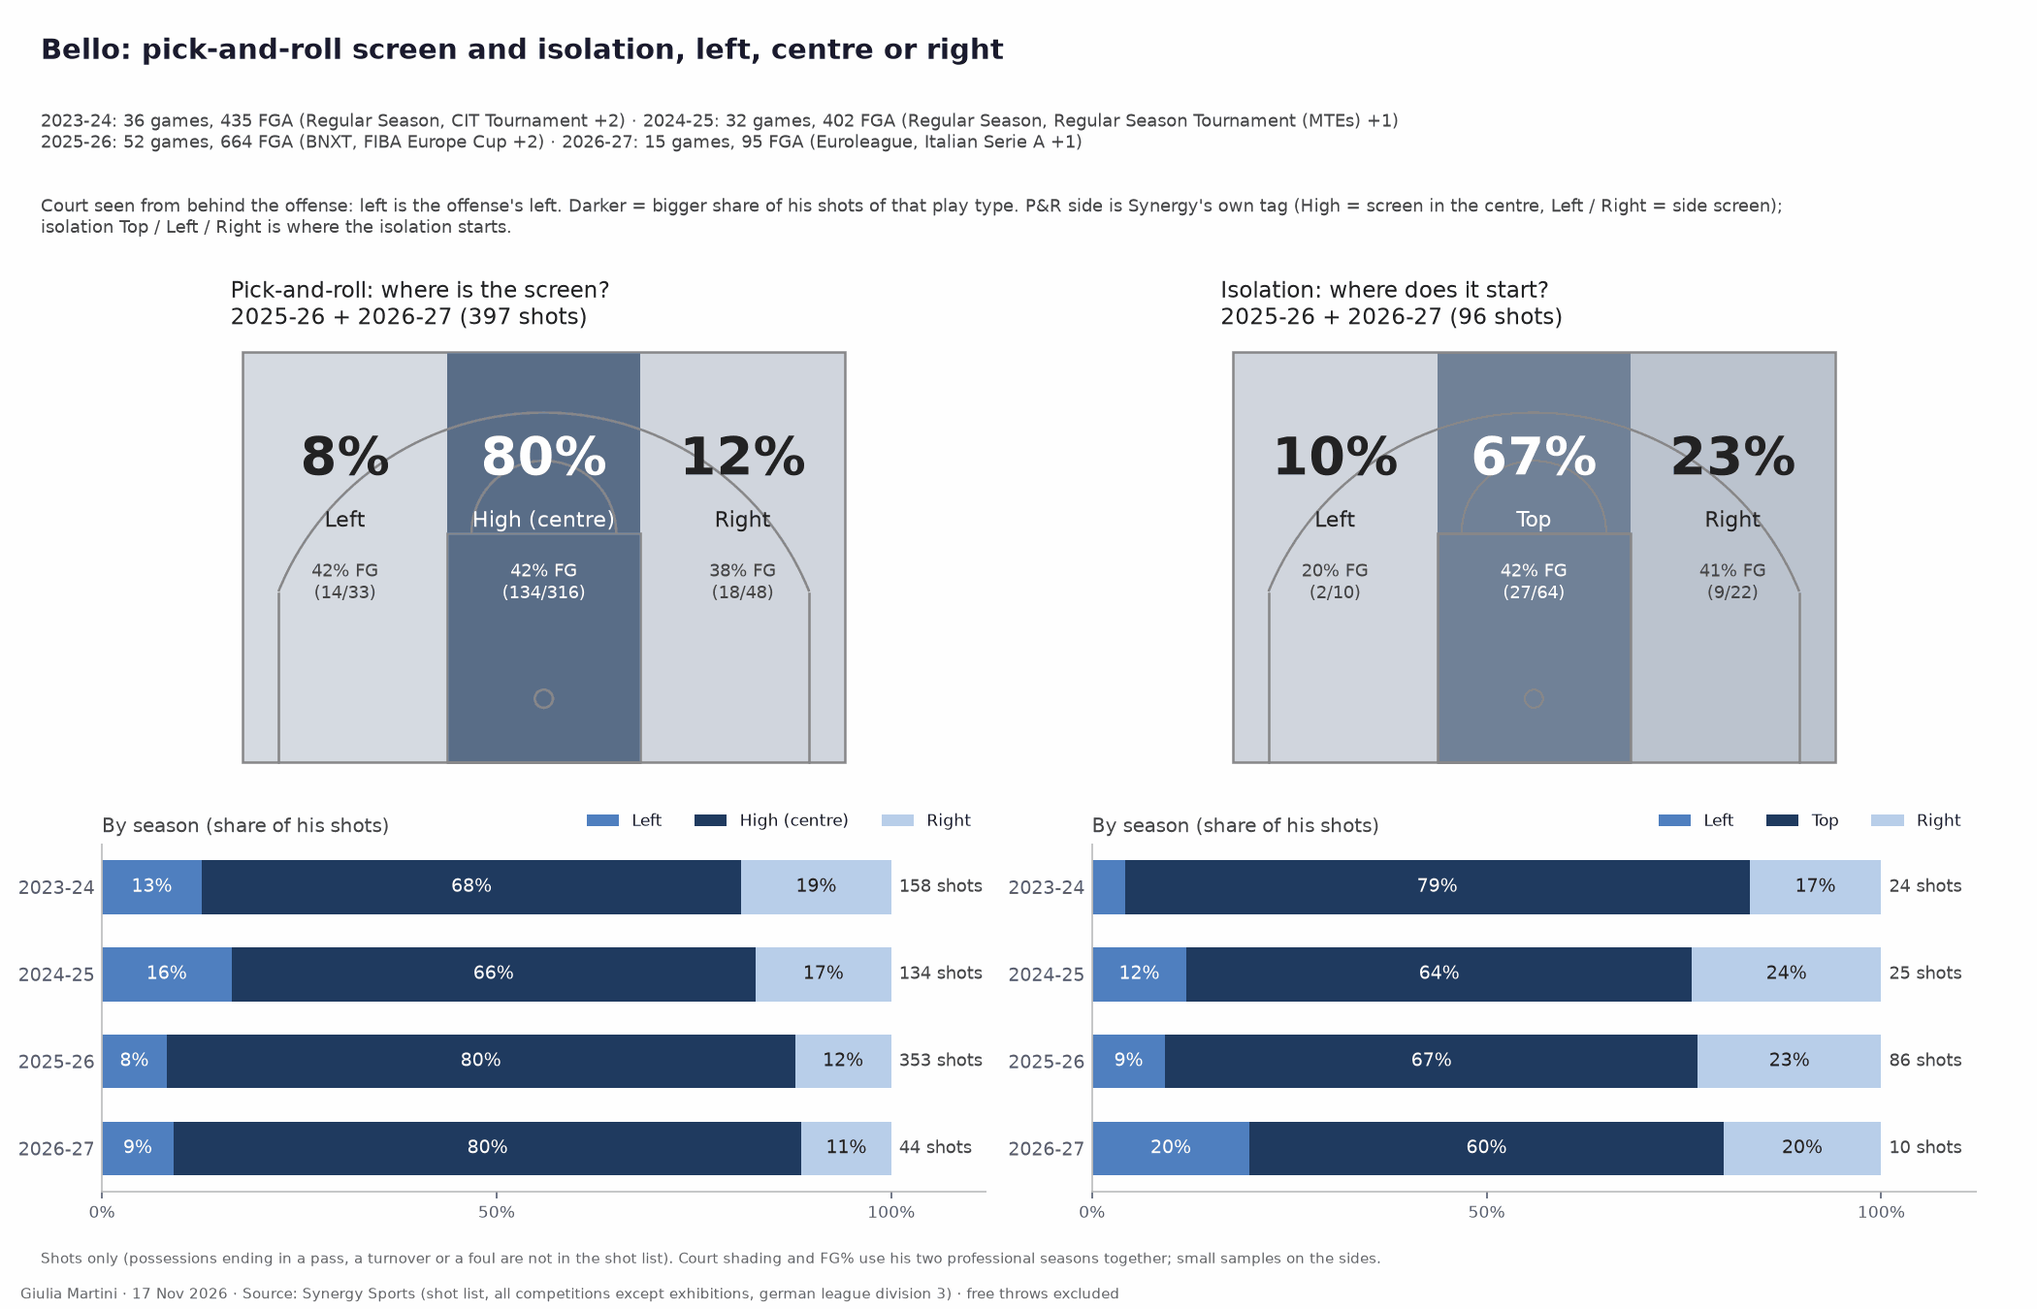
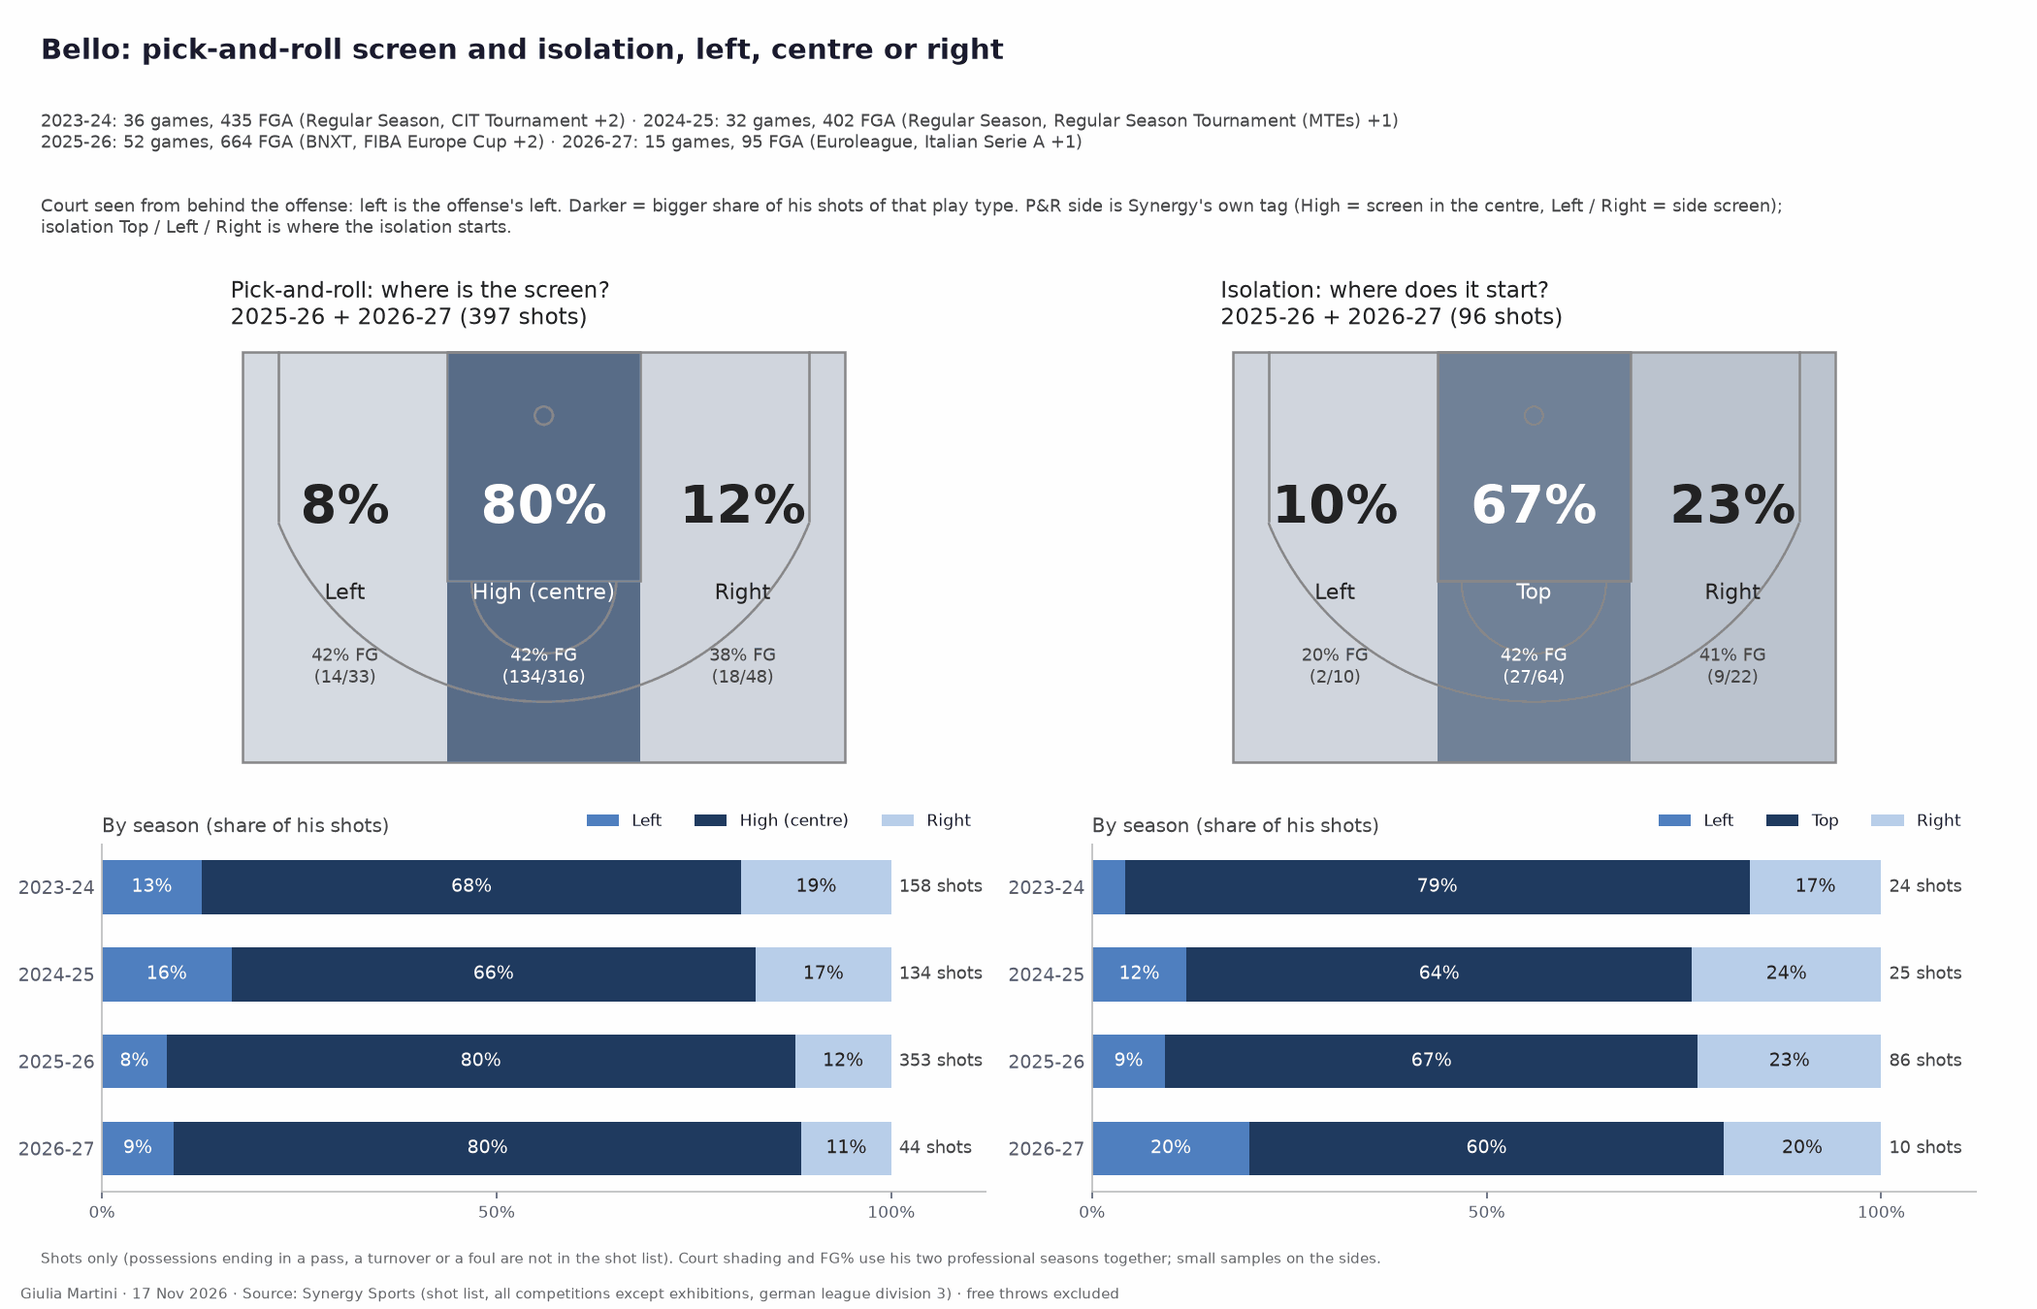
Bello: left/right cumulative figure, courts with basket at the top, tidier section
- New 10g figure: share of his shots from the left and the right of the
  floor (all shots, threes, mid-range, paint), all seasons and Antwerp +
  Virtus.
- 10f court figure redrawn with the basket at the top, the project's
  shot-chart orientation.
- Bello section of the Bologna individual tendencies page rewritten: the
  zones figure is out, one figure per sub-heading, the cumulative
  left/right view right after the pick-and-roll breakdown.
- opponent-analysis skill: rules for figures with a court (basket at the
  top, left/right of the offense, one question per figure).

diff --git a/notebooks/synergy_player_history.py b/notebooks/synergy_player_history.py
@@ -364,7 +364,8 @@ COURT_ZONES = {   # play type -> (title, sub-types left to right as the offense 
 
 
 def draw_half_court(ax: Axes) -> None:
-    """Half court seen from behind the offense: basket at the bottom, left of the offense on the left of the picture (feet)."""
+    """Half court seen from behind the offense, in feet: basket at the top (the project's shot-chart orientation, see lba_style.ROTATE_COURT),
+    the offense's left on the left of the picture, its right on the right (Synergy x < 250 is the offense's right)."""
     line = dict(color='#888888', lw=1.2, zorder=3)
     ax.add_patch(Rectangle((-25, 0), 50, 34, fill=False, **line))
     ax.add_patch(Rectangle((-8, 0), 16, 19, fill=False, **line))
@@ -372,7 +373,7 @@ def draw_half_court(ax: Axes) -> None:
     ax.add_patch(Arc((0, 5.25), 47.5, 47.5, theta1=22, theta2=158, **line))
     ax.plot([-22, -22], [0, 14], **line); ax.plot([22, 22], [0, 14], **line)
     ax.add_patch(Circle((0, 5.25), .75, fill=False, **line))
-    ax.set_xlim(-26, 26); ax.set_ylim(-1, 35); ax.set_aspect('equal'); ax.axis('off')
+    ax.set_xlim(-26, 26); ax.set_ylim(35, -1); ax.set_aspect('equal'); ax.axis('off')   # y reversed: basket at the top, as in every shot chart of the project
 
 
 def fig_courts(c: Ctx, p: str, s: pd.DataFrame, g: pd.DataFrame) -> None:
@@ -393,10 +394,10 @@ def fig_courts(c: Ctx, p: str, s: pd.DataFrame, g: pd.DataFrame) -> None:
             x0, x1 = (-25, -8) if k == 0 else ((-8, 8) if k == 1 else (8, 25))
             cc.add_patch(Rectangle((x0, 0), x1 - x0, 34, fc=to_rgba('#1F3A5F', .12 + .78 * share), ec='none', zorder=1))
             fg = f'{100 * x.made.sum() / len(x):.0f}% FG\n({int(x.made.sum())}/{len(x)})' if len(x) else ''
-            cc.text((x0 + x1) / 2, 25, f'{100 * share:.0f}%', ha='center', va='center', fontsize=26, fontweight='bold',
+            cc.text((x0 + x1) / 2, 13, f'{100 * share:.0f}%', ha='center', va='center', fontsize=26, fontweight='bold',
                     color='white' if share > .35 else TEXT, zorder=5)
             cc.text((x0 + x1) / 2, 20, lab, ha='center', va='center', fontsize=10.5, color='white' if share > .35 else TEXT, zorder=5)
-            cc.text((x0 + x1) / 2, 15, fg, ha='center', va='center', linespacing=1.3, fontsize=8.5, color='white' if share > .35 else TEXT2, zorder=5)
+            cc.text((x0 + x1) / 2, 26, fg, ha='center', va='center', linespacing=1.3, fontsize=8.5, color='white' if share > .35 else TEXT2, zorder=5)
         cc.set_title(f'{title}\n{" + ".join(pro)} ({n} shots)', fontsize=11, loc='left', color=TEXT, pad=8)
         bar = fig.add_subplot(gs[1, j])
         for i, se in enumerate(seasons):
@@ -424,6 +425,44 @@ def fig_courts(c: Ctx, p: str, s: pd.DataFrame, g: pd.DataFrame) -> None:
     c.save(fig, f'10f_player_{p.lower()}_pnr_iso_courts.png', 'free throws excluded')
 
 
+LR_GROUPS = [('All shots', None), ('Threes', '3PT'), ('Mid-range', 'Mid-range'), ('Paint', 'Paint')]
+LR_ROWS = [('All seasons', None), ('Antwerp + Virtus', ('2025-26', '2026-27'))]
+
+
+def fig_left_right(c: Ctx, p: str, s: pd.DataFrame, g: pd.DataFrame) -> None:
+    """Does he shoot more from the left or from the right of the floor? All shots, threes, mid-range and paint, cumulative."""
+    d = s[(s.player == p) & s.x.notna()].copy()
+    d['side'] = np.where(d.x < RIM_X, 'right', 'left')
+    fig, axs = plt.subplots(2, 2, figsize=(14, 6.8))
+    fig.subplots_adjust(left=.11, right=.97, top=.75, bottom=.1, hspace=.6, wspace=.18)
+    for ax, (title, kind) in zip(axs.flat, LR_GROUPS):
+        x = d if kind is None else d[d.kind == kind]
+        for i, (row_name, seasons) in enumerate(LR_ROWS):
+            r = x if seasons is None else x[x.season.isin(seasons)]
+            left = 0
+            for side in ('left', 'right'):
+                t = r[r.side == side]
+                share = 100 * len(t) / len(r) if len(r) else 0
+                ax.barh(i, share, left=left, color=SIDE_COLORS[side], height=.62)
+                fg = f'{100 * t.made.sum() / len(t):.0f}% FG' if len(t) else ''
+                ax.text(left + share / 2, i, f'{share:.0f}%\n{fg} ({int(t.made.sum())}/{len(t)})', ha='center', va='center', fontsize=8.5,
+                        color='white' if side == 'right' else TEXT)
+                left += share
+        ax.set_yticks(range(len(LR_ROWS))); ax.set_yticklabels([n for n, _ in LR_ROWS] if ax in axs[:, 0] else [], fontsize=9)
+        ax.invert_yaxis(); ax.set_xlim(0, 100); ax.set_xticks([0, 50, 100]); ax.set_xticklabels(['0%', '50%', '100%'], fontsize=8)
+        ax.tick_params(axis='y', length=0)
+        ax.set_title(f'{title} ({len(x)} shots)', fontsize=10.5, loc='left', color=TEXT, pad=6)
+    fig.legend(handles=[Patch(fc=SIDE_COLORS[k], label=f'{k.capitalize()} of the floor') for k in ('left', 'right')], loc='upper right', ncol=2, fontsize=9,
+               bbox_to_anchor=(.97, .985), frameon=False)
+    fig.text(.02, .955, f'{p}: more to the left or to the right?', fontsize=14, fontweight='bold')
+    fig.text(.02, .915, season_line(p, s, g), fontsize=8.5, color=TEXT2, va='top')
+    fig.text(.02, .835, 'Every field-goal attempt, all play types, by the side of the floor (left or right of the basket, from the offense\'s point of view) where it is taken.',
+             fontsize=8.5, color=TEXT2, va='top')
+    fig.text(.02, .04, 'Shots only. Side from the shot coordinates in the Synergy shot chart; a shot right under the basket counts on the side of its coordinate. '
+             '2023-25 are US college games.', fontsize=7, color=TEXT3)
+    c.save(fig, f'10g_player_{p.lower()}_left_right.png', 'free throws excluded')
+
+
 def main() -> None:
     ap = argparse.ArgumentParser(description=__doc__, formatter_class=argparse.RawDescriptionHelpFormatter)
     ap.add_argument('data', type=Path); ap.add_argument('--out', type=Path, required=True)
@@ -433,7 +472,7 @@ def main() -> None:
     s, g = load(a.data)
     c = Ctx(a.out, a.author, a.date)
     for p in (a.players.split(',') if a.players else sorted(s.player.unique())):
-        fig_zones(c, p, s, g); fig_situations(c, p, s, g); fig_triangles(c, p, s, g); fig_drives(c, p, s, g); fig_pnr(c, p, s, g); fig_courts(c, p, s, g)
+        fig_zones(c, p, s, g); fig_situations(c, p, s, g); fig_triangles(c, p, s, g); fig_drives(c, p, s, g); fig_pnr(c, p, s, g); fig_courts(c, p, s, g); fig_left_right(c, p, s, g)
         print(p, '->', a.out / f'10*_player_{p.lower()}_*.png')
 
 

diff --git a/weekly/games/2026-11-22/individual_tendencies.md b/weekly/games/2026-11-22/individual_tendencies.md
@@ -66,23 +66,16 @@ Shot profile (made/attempted by location and play type) and shot types within ea
 
 ## Rasheed Bello: four seasons of shots
 
-==Rasheed Bello== arrives from Antwerp (2025-26: BNXT League, FIBA Europe Cup, Champions League; 52 games, 664 attempts) after two seasons at Purdue Fort Wayne in the US college game (2023-24 and 2024-25: 36 and 32 games, 435 and 402 attempts). This season: 15 games and 95 attempts at Virtus (Euroleague, Italian Serie A, SuperCup; exhibitions excluded). The college seasons are a different level of opposition: read them as habits, not as efficiency benchmarks.
+==Rasheed Bello== comes from Antwerp (2025-26: 52 games, 664 attempts) after two seasons at Purdue Fort Wayne in the US college game (2023-24 and 2024-25: 435 and 402 attempts); at Virtus so far 15 games and 95 attempts (exhibitions excluded). The college seasons are a different level: read them as habits, not as efficiency benchmarks.
 
-- **He is a ==pick-and-roll ball handler==.** The P&R ball handler is 36% of his attempts at Purdue Fort Wayne in 2023-24, 33% in 2024-25, 53% at Antwerp and 46% this season; about 80% of them come off a high pick, and he dribbles off it.
-- **Out of the pick-and-roll he has become a ==shooter, not a driver==.** Threes were 9% of his P&R shots in 2023-24, 40% at Antwerp and 39% this season; drives to the basket went from 73% to 32% and 30%; mid-range is a quarter of the shots since 2024-25. Details: [Pick-and-roll: three, drive or mid-range](#pick-and-roll-three-drive-or-mid-range).
-- **Sides: threes and mid-range from the ==right==, drives to the ==left==.** At Antwerp 75% of his P&R threes came from the right side of the floor (36% made against 26% from the left) and 61% of the mid-range shots; 60% of his drives finished on the left side of the rim. This season the small sample leans right on threes and drives.
-- **What is new this season**: efficiency has dropped (35% from the field, eFG 41% in 95 attempts, against 51-54% before) and the volume is much lower; the shot mix is unchanged (44% threes, 37% paint).
+- **A pick-and-roll ball handler**: 53% of his attempts at Antwerp, 46% this season, 80% of them off a high pick ([screen and isolation](#where-the-pick-and-roll-screen-and-the-isolation-are)).
+- **A shooter more than a driver**: threes were 9% of his P&R shots in 2023-24 and are 39-40% now, drives went from 73% to 30-32% ([breakdown](#three-drive-or-mid-range-out-of-the-pick-and-roll)).
+- **Jump shots from the ==right==, paint shots on the ==left==**: 69% of his threes since Antwerp come from the right of the floor, 56% of his paint shots from the left ([left or right](#left-or-right-of-the-floor)).
+- **This season**: 35% from the field (eFG 41%) against 51-54% before, on much lower volume.
 
 <!-- more -->
 
-### Where the shots come from
-
-![Bello: attempts per game and FG% by zone, four seasons](10_player_bello_zones_by_season.png)
-
-- The three became his main shot when he turned professional: 32% of the attempts at Purdue Fort Wayne in 2023-24, 44-45% every season since. Wing threes are 27% of the attempts since 2024-25, corner threes 3-4%.
-- The paint share fell from 56% (2023-24) to 35-37%, replaced by mid-range (12% → 19-20%): he pulls up more and finishes at the rim less than in college.
-
-### Pick-and-roll: three, drive or mid-range
+### Three, drive or mid-range out of the pick-and-roll
 
 ![Bello: three, drive or mid-range out of the pick-and-roll, by side, four seasons](10e_player_bello_pnr_shots.png)
 
@@ -95,29 +88,45 @@ Every shot he takes as the pick-and-roll ball handler, by type (top bar) and by 
 | Mid-range | 26 (16%) | 35 (26%) | 90 (25%) | 12 (27%) |
 | Total (incl. paint jumpers) | 158 | 134 | 353 | 44 |
 
-- **Threes: right side.** The share from the right was 43%, 57%, 75% and 65%. Since he turned professional he makes 36% of them from the right (42/116) and 24% from the left (10/41); at Antwerp alone 38/105 against 9/35.
-- **Drives: left side at the rim.** 61%, 66%, 60% of the drives finished on the left side of the rim in the first three seasons, and he scored more often going right at Antwerp (64%, 29/45) than left (53%, 36/68). This season 8 of 13 are on the right (small sample).
-- **Mid-range: slightly more from the right, and less accurate there.** Right share 42%, 60%, 61% and 50%; Antwerp 36% from the right (20/55) against 40% from the left (14/35); no clear difference this season (6 and 6 shots).
-- **In short**: out of the screen he goes to his right for the jump shots (three and mid-range) and to his left for the finish at the rim; the sample this season (44 shots) is too small to say whether that has changed.
+- **Threes: right side.** The share from the right was 43%, 57%, 75% and 65%; since Antwerp he makes 36% from the right (42/116) and 24% from the left (10/41).
+- **Drives: left side at the rim** (60-66% in the first three seasons), but he scored more going right at Antwerp (64%, 29/45 against 53%, 36/68). This season 8 of 13 are on the right.
+- **Mid-range: slightly more from the right, and less accurate there** (Antwerp: 36% from the right, 40% from the left; no difference this season, 6 shots each side).
 
-### Pick-and-roll screen and isolation: left, centre or right
+### Left or right of the floor
+
+![Bello: shots from the left and from the right of the floor, all shots, threes, mid-range and paint](10g_player_bello_left_right.png)
+
+Every shot, all play types, by the side of the floor where it is taken; first bar all four seasons, second bar Antwerp and Virtus only.
+
+| Share from the right | All seasons | Antwerp + Virtus |
+|---|---|---|
+| All shots | 51% | 58% |
+| Threes | 58% | 69% |
+| Mid-range | 51% | 59% |
+| Paint | 43% | 44% |
+
+- **Threes: clearly right.** 233 of 340 since Antwerp (69%), made 35% from the right against 31% from the left.
+- **Mid-range: right since Antwerp** (59%), and a little less accurate there (37% against 40%).
+- **Paint: left.** 56-57% of his paint shots are on the left, in every period, but he scores more on the right (58% against 50% over four seasons; 63% against 50% since Antwerp).
+- **Overall**: balanced over four seasons (51% right), right-leaning since he turned professional (58%), because of the threes and the mid-range.
+
+### Where the pick-and-roll screen and the isolation are
 
 ![Bello: where the pick-and-roll screen and the isolation are, left, centre or right, four seasons](10f_player_bello_pnr_iso_courts.png)
 
-The court is seen from behind the offense (left is the offense's left); the shading and the percentages are his two professional seasons together, the bars below show every season.
+The court is seen from behind the offense, basket at the top, left is the offense's left; shading and percentages are Antwerp and Virtus together, the bars show every season.
 
-- **Pick-and-roll: ==the high pick==.** 80% of his P&R shots come off a screen in the centre (316 of 397), 12% off a right-side screen and 8% off a left-side one. It was 66-68% in the two college seasons.
-- **Side screens are a minor share and go slightly more to the right** than to the left in every season (12% against 8% in 2025-26, 11% against 9% this season). He shoots about as well off them (38-42%) as off the high pick (42%).
-- **Isolation: ==from the top==.** Two thirds of his isolation shots start at the top of the key (64 of 96), a quarter on the right (23%) and a tenth on the left (10%; only 10 shots, 2 made). It is a small part of his game: 6% to 13% of his shots.
-- This season: 80% high pick (44 shots); isolations are 10 shots, so nothing to read there yet.
+- **Pick-and-roll: ==the high pick==.** 80% of his P&R shots come off a screen in the centre (316 of 397), 12% off a right-side screen and 8% off a left-side one (66-68% in college). He shoots about as well off the side screens (38-42%) as off the high pick (42%).
+- **Isolation: ==from the top==.** Two thirds start at the top of the key (64 of 96), 23% on the right and 10% on the left (10 shots, 2 made). Isolations are 6-13% of his shots.
+- This season: 80% high pick (44 shots); only 10 isolation shots, nothing to read yet.
 
 ### Game by game
 
 ![Bello: 3PT / paint / mid-range split of the attempts, game by game, four seasons](10c_player_bello_triangles.png)
 
-- The mix moved from paint-heavy (college) to the three-and-mid-range side from 2024-25 on.
+The mix moved from paint-heavy (college) to the three-and-mid-range side from 2024-25 on.
 
-Source and caveats: Synergy shot list and possessions (pulled 17 Nov 2026, `data/synergy/players_2026-11-17/`). Field-goal attempts only, so possessions ending in a turnover, foul or pass are not counted. Side of the rim from the shot coordinate (checked against the Drives Left / Right tags from 2024-25 on; the 2023-24 college tags are less clear-cut). Small samples per season and side.
+Source and caveats: Synergy shot list (pulled 17 Nov 2026, `data/synergy/players_2026-11-17/`), field-goal attempts only: possessions ending in a turnover, foul or pass are not counted. Side from the shot coordinate (checked against Synergy's Drives Left / Right tags from 2024-25 on). Small samples per season and side.
 
 ## Rotation by player
 

diff --git a/.claude/skills/opponent-analysis/SKILL.md b/.claude/skills/opponent-analysis/SKILL.md
@@ -47,6 +47,13 @@ Key points (top of each page) are headlines: one line per point, at most one num
   Do this for every new figure or index of every future analysis, and give the figures their descriptive names: never "plot 1" or
   "plot 2" (in titles, notes, text or code comments).
 
+## 3b. Figures with a court (shot charts, zones, sides)
+
+* **Every court is drawn with the basket at the top**: the standard half court rotated by 180 degrees (`lba_style.ROTATE_COURT`, `lba_style.draw_half_court`), with the text upright. This holds for every shot chart and court figure, team or player (for example `10f_player_<name>_pnr_iso_courts.png` of `notebooks/synergy_player_history.py`), never basket at the bottom.
+* **Left and right are the offense's**, seen from behind the offense: the offense's left is the left of the picture, its right the right. In the Synergy shot chart x < 250 is the offense's right, x > 250 its left (the rim is at (250, 330)).
+* One figure answers one question, with the answer in the title or the first label; no more than three panels per figure, labels inside the bars, no overlapping text. After drawing, open the PNG and check it before using it.
+* In a page section, one figure per sub-heading, under a short text (what it shows, how to read it), then at most three bullets. Cumulative views (all seasons, all shot types together) come after the breakdown they sum up.
+
 ## 4. Writing the numbers
 
 * Source of every number: the Synergy pull folder (`data/synergy/<team>_<date>/`, README lists the files), `data/box_scores.csv`, `data/pbp.csv`, the `auto.json` of the matchup report. Team-level ranks come from the `league_team_*.csv` of the pull; play-type ranks only exist in the newest `data/synergy/leaderboards_<date>/`, so say "on <date>" next to any play-type rank that is older than the pull.
